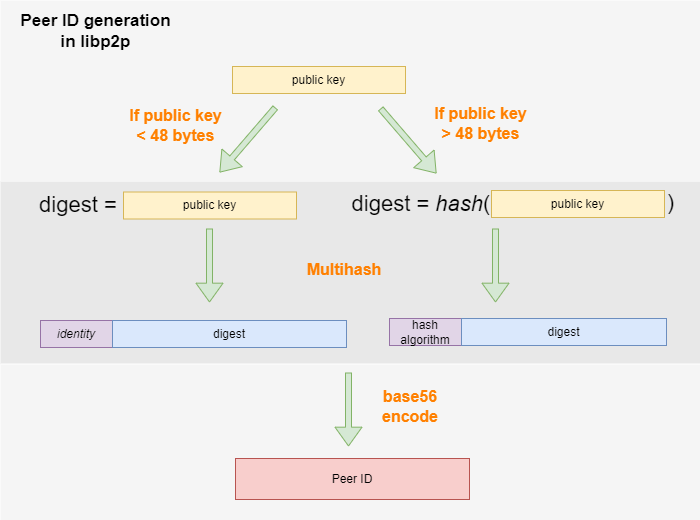
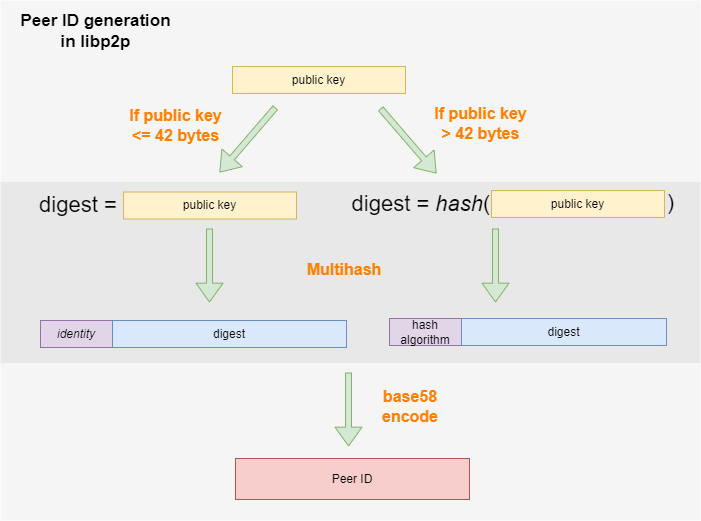
Peer review

diff --git a/docs/libp2p/libp2p-connections-users.md b/docs/libp2p/libp2p-connections-users.md
@@ -25,28 +25,27 @@ func main() {
 }
 ```
 
-Nodes establish connections with other nodes, so we need a way to locate those nodes. With peer identifiers and multiaddresses, you can locate nodes to connect with.
+Nodes establish connections with other nodes, so we need a way to locate those nodes. Multiaddresses specify the location of a node (e.g. which IP address and which port) and peer identifiers specify the identity of the node (e.g. once you get to the node, you can check if this is indeed the node you were looking for). 
 
 ### Peer Identity
 
 Every node in the network is uniquely identified through its _peer id_. A peer id is generated from the public key of the node.
 A peer id is a multihash, which essentially is a hash prefixed with the hash algorithm used (the same way that multihashes are used in CIDs).
 
-If the public key's length is more than 48 bytes, then the multihash digest is generated by applying a hash function to the public key.
-If the public key's length is less than 48 bytes, then the multihash digest is the public key itself, and the 
-hash function code is the _identity code_. The identity code means that no has been applied to the digest.
+- If the public key's length is more than 42 bytes, then the [multihash](https://github.com/multiformats/multihash) digest is generated by applying a hash function to the public key.
+- If the public key's length is less than or equal to 42 bytes, then the multihash digest is the public key itself, and the hash function code is the _identity hash_. The identity hash means that the output digest is the same as the input.
 
 ![How peer IDs are generated](<../../.gitbook/assets/libp2p-peer-identity.png>)
 
 ### Multiaddress
 
 We have every node uniquely identified by its public key, however, we still must know _where_ and _how_ to establish the connection.
-A multiaddress allows you to specify the transport for the connection (TCP, UDP, QUIC...) and network to establish that connection (IP, DNS...).
+A [multiaddress](https://github.com/multiformats/multiaddr) allows you to specify the transport for the connection (TCP, UDP, QUIC...) and how to reach the node to establish the connection (IP, DNS...).
 
-The following example specifies a connection to the `127.0.0.1` IPv4 by using the UDP protocol at port 1234.
+The following example specifies a connection to the `127.0.0.1` IPv4 by using the TCP protocol at port 8080.
 
 ```
-/ip4/127.0.0.1/udp/1234
+/ip4/127.0.0.1/tcp/8080
 ```
 
 The main advantage of multiaddresses is that they are self-describing. Only by looking at the address, you can figure out what protocols are involved in the connection.
@@ -64,16 +63,16 @@ When establishing the connection, we will have two actors: the initiator and the
 
 #### Handshake
 
-The handshake starts the connection with the peer and verifies that the peer can understand the `multistream-set` protocol.
+The handshake starts the connection with the peer and verifies that the peer can understand the [multistream-select](https://github.com/multiformats/multistream-select) protocol.
 
-After the handshake, the two peers must negotiate other protocols (security, multiplexer, application...), so we need a protocol that indicates how two peers can negotiate other protocols. The Multistream protocol allows peers to exchange what other protocols they support and negotiate them. Therefore, both peers must talk over the same version of Multistreams.
+After the handshake, the two peers must negotiate other protocols (security, multiplexer, application...), so we need a protocol that indicates how two peers can negotiate other protocols. The Multistream protocol allows peers to exchange what other protocols they support and negotiate them. Therefore, both peers must agree on the same version of Multistream.
 
 ```shell
-# Request: Do you understand "multistream 1.0.0"?
-> multistream 1.0.0
+# Request: Do you understand "/multistream/1.0.0"?
+> /multistream/1.0.0
 
 # Response: I do.
-+ multistream 1.0.0
++ /multistream/1.0.0
 ```
 
 #### Security
@@ -83,40 +82,38 @@ Now, the two peers will use Multistream to negotiate the security protocol, whic
 Usually, several protocols are tried during the negotiation, with a preference order. For example, you might try to use TLS first. If your peer does not support TLS, you might try Noise. When a security protocol is accepted, the connection is upgraded to use that protocol.
 
 ```shell
-# Request: Do you understand "TLS 1.0.0"?
-> multistream 1.0.0
+# Request: Do you understand "/tls/1.0.0"?
+> /tls/1.0.0
 
 # Response: I do not
 + na
 
-# Request: Do you understand "noise 1.0.0"?
-> noise 1.0.0
+# Request: Do you understand "/noise/1.0.0"?
+> /noise/1.0.0
 
 # Response: I do
-+ noise 1.0.0
++ /noise/1.0.0
 ```
 
 #### Multiplexer
 
-Once the connection is secured, a multiplexer protocol is negotiated. Muxtiplexing means allowing several protocols through a single connection. For example, if your peer wants to consume both TCP and UDP, the same connection will be used, instead of creating a connection for each protocol. Multiplexing is important because creating connections is expensive.
+Once the connection is secured, a multiplexer protocol is negotiated. Muxtiplexing means opening up multiple distinct logical streams to a peer on a single connection. For example you may want to interact with a peer on the DHT, but you may also want to ping that peer. Multiplexing lets you do both of these on the same underlying connection.
 
-Because the data will be sent over the same connection, we need an abstraction called _stream_. A stream represents the data for a specific protocol in a given connection. For example, if your connection exposes TCP and UDP protocols, then two streams will be created. Data flowing through the connection is assigned its corresponding _stream id_.
+Because the data will be sent over the same connection, we need an abstraction called _stream_. A stream represents the data for a specific protocol in a given connection. Data flowing through the connection is assigned its corresponding _stream id_. In the following example, the streams for two protocols are shown: [rendezvous](https://github.com/libp2p/specs/blob/master/rendezvous/README.md#the-protocol) (with protocol id `/rendezvous/1.0.0`) and [identify](https://github.com/libp2p/specs/blob/master/identify/README.md#overview) (with protocol id `/ipfs/id/1.0.0`).
 
 ![Streams in a single connection](<../../.gitbook/assets/libp2p-streams.png>)
 
 ### Negotiating protocols
 
-After the connection is established (i.e. handshake, security, and multiplexing), peers exchange what protocols they support. The Multistream protocol is used to ask for a list of supported protocols (`multistream ls`).
+After the connection is established (i.e. handshake, security, and multiplexing), peers exchange what application protocols they support. Because `multistream-select` is used, the procedure to agree on an application protocol is the same than for the security and mutiplexing negotiations: the protocol identifier is sent to the peer and `na` is answered if the protocol is not supported.
 
-By default, this is done after the connection is established, but the Multistream list function can be used later to verify if new protocols have been added.
-
-Every supported protocol is assigned a handler function, which manages the data for that protocol.
+Every supported protocol is assigned a handler, which manages the data for that protocol.
 
 ### Peer Discovery
 
 Every peer has an identifier, which is generated from its public key. However, this is not enough to find out the location of the peer. Libp2p exposes two interfaces: Advertiser and Discoverer.
 
-The Advertiser offers services to the network, which means that shares the protocols that it supports with the rest of the network. On the other hand, the Discoverer is able to find peers.
+The Advertiser offers services to the network, which means that shares the protocols that it supports with the rest of the network. The Discoverer is able to find peers.
 
 The are two main implementations: mDNS and the Kademlia Distributed Hash Table. The Kademlia DHT is used to discover peers in the IPFS network. Other implementations are also valid as long as they comply with the previously mentioned interfaces.
 
